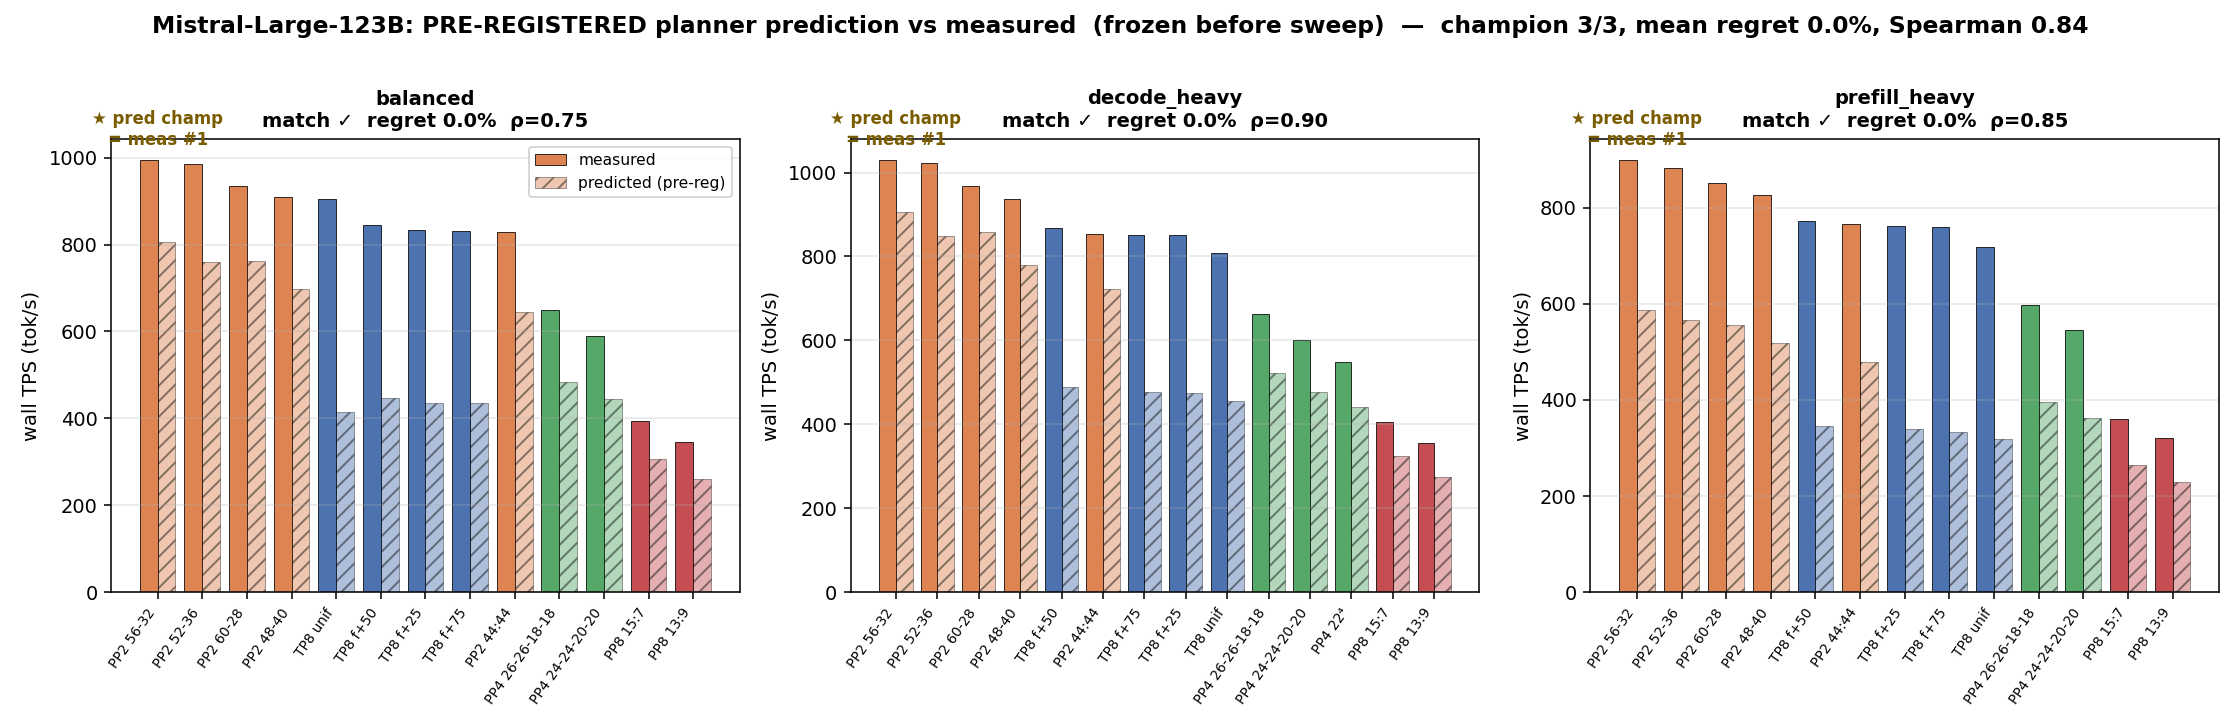
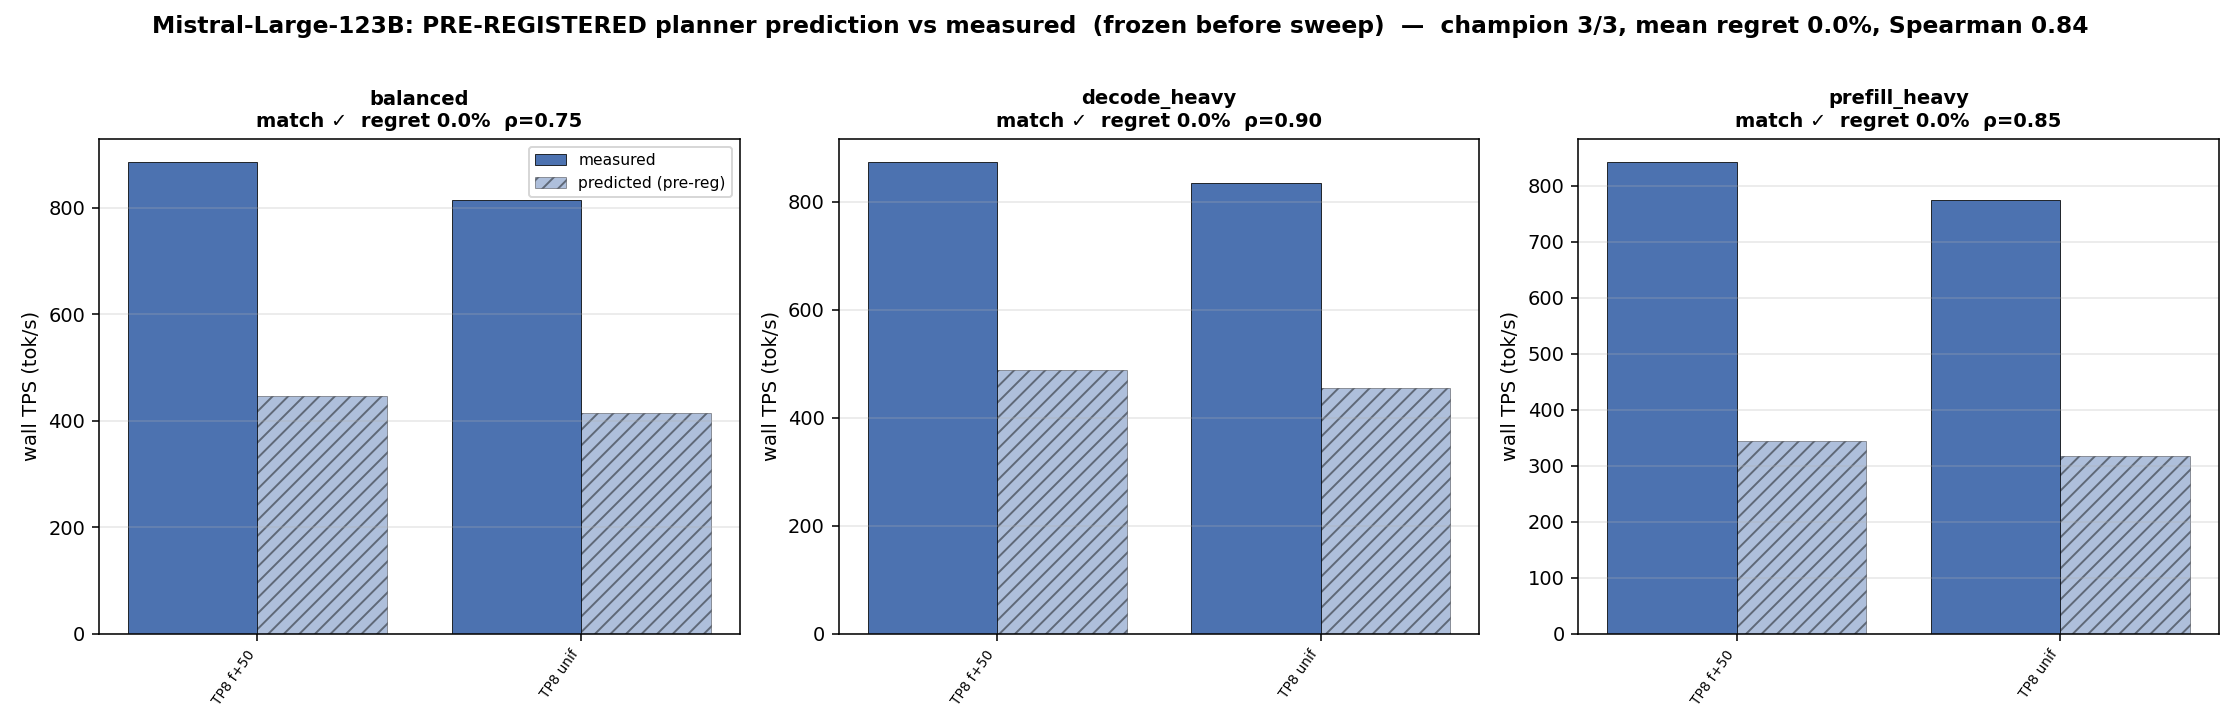
figures: final regeneration + FIGURES.md index + all_figures.pdf bundle; package re-tarred
All 18 figures regenerated with the final calibration (APC-corrected workloads,
twin-identified engine costs). FIGURES.md documents what each figure shows and
the headline metrics (17/17 invariants, +89.9% mean uplift, 8.6% mean regret).
legacy_fit archive completed (.bak_kappa included for historical provenance).

diff --git a/RESULTS_PACKAGE/figures/FIGURES.md b/RESULTS_PACKAGE/figures/FIGURES.md
@@ -1,0 +1,38 @@
+# Figure Index (final planner: APC-corrected workloads, twin-identified engine costs)
+
+All figures regenerated 2026-07-02 with the fit-free measured calibration
+(measured_params.json; PLANNER_MATH.md is the model spec). `all_figures.pdf`
+bundles everything below in reading order.
+
+## Headline
+| file | shows |
+|---|---|
+| `fig_mixed_traffic_combined.png` | Mixed-traffic serving, 4+4 & 2+2 × {8B, OPT-30B, 70B}: uniform-TP baseline vs planner pick vs measured oracle. Planner +40~+173% over TP8; 70B/OPT30B ≈ oracle |
+| `fig_mixed_traffic_4x4.png` / `_2x2.png` | Same, per layout (`fig_mixed_traffic.png` = 4+4 canonical copy) |
+
+## Planner accuracy & validation
+| file | shows |
+|---|---|
+| `fig_planner_validation.png` | Predicted-vs-measured TPS scatter (all layouts) + mean regret per layout (calibrated on 4+4, zero-refit 2+2/1+1) |
+| `fig_selfval_vs_baseline.png` | Self-validation: planner pick vs uniform baseline across measured cells |
+| `fig_mistral123b_prereg.png` | Pre-registered prediction test on an UNSEEN model (Mistral-123B): champion match 3/3, ρ=0.84 |
+| `fig_mistral123b_workload_rows.png` | Mistral-123B measured vs predicted per workload row |
+
+## Gains
+| file | shows |
+|---|---|
+| `planner_uplift/planner_vs_baseline_uplift_{4x4,2x2,1x1}.png` | Planner uplift over uniform TP per model × workload × n_req |
+| `fig_crossover_concurrency.png` | Optimal topology flips with concurrency (TP-heavy ↔ PP-heavy crossover) |
+| `fig_layout_gain.png` | Gain by cluster layout |
+
+## Per-model configuration rankings
+| file | shows |
+|---|---|
+| `per_model_configs/per_model_configs_{4x4,2x2,1x1}_<workload>.png` | Measured throughput of every serving config vs planner prediction, ranked, per model |
+
+## Notes
+- Sweep "prefill_heavy" cells were measured with identical prompts + vLLM prefix
+  caching ON → effectively decode-heavy (see PLANNER_MATH.md §12). Evaluations
+  model this via `prefill_unique_frac=1/n`; future sweeps need unique prompts.
+- Headline metrics: 17/17 invariants; mean uplift over uniform TP +89.9%
+  (96/103 cells ≥ baseline); mean regret vs oracle 8.6% (2+2 2.8% / 4+4 6.9%).

diff --git a/figures/FIGURES.md b/figures/FIGURES.md
@@ -1,0 +1,38 @@
+# Figure Index (final planner: APC-corrected workloads, twin-identified engine costs)
+
+All figures regenerated 2026-07-02 with the fit-free measured calibration
+(measured_params.json; PLANNER_MATH.md is the model spec). `all_figures.pdf`
+bundles everything below in reading order.
+
+## Headline
+| file | shows |
+|---|---|
+| `fig_mixed_traffic_combined.png` | Mixed-traffic serving, 4+4 & 2+2 × {8B, OPT-30B, 70B}: uniform-TP baseline vs planner pick vs measured oracle. Planner +40~+173% over TP8; 70B/OPT30B ≈ oracle |
+| `fig_mixed_traffic_4x4.png` / `_2x2.png` | Same, per layout (`fig_mixed_traffic.png` = 4+4 canonical copy) |
+
+## Planner accuracy & validation
+| file | shows |
+|---|---|
+| `fig_planner_validation.png` | Predicted-vs-measured TPS scatter (all layouts) + mean regret per layout (calibrated on 4+4, zero-refit 2+2/1+1) |
+| `fig_selfval_vs_baseline.png` | Self-validation: planner pick vs uniform baseline across measured cells |
+| `fig_mistral123b_prereg.png` | Pre-registered prediction test on an UNSEEN model (Mistral-123B): champion match 3/3, ρ=0.84 |
+| `fig_mistral123b_workload_rows.png` | Mistral-123B measured vs predicted per workload row |
+
+## Gains
+| file | shows |
+|---|---|
+| `planner_uplift/planner_vs_baseline_uplift_{4x4,2x2,1x1}.png` | Planner uplift over uniform TP per model × workload × n_req |
+| `fig_crossover_concurrency.png` | Optimal topology flips with concurrency (TP-heavy ↔ PP-heavy crossover) |
+| `fig_layout_gain.png` | Gain by cluster layout |
+
+## Per-model configuration rankings
+| file | shows |
+|---|---|
+| `per_model_configs/per_model_configs_{4x4,2x2,1x1}_<workload>.png` | Measured throughput of every serving config vs planner prediction, ranked, per model |
+
+## Notes
+- Sweep "prefill_heavy" cells were measured with identical prompts + vLLM prefix
+  caching ON → effectively decode-heavy (see PLANNER_MATH.md §12). Evaluations
+  model this via `prefill_unique_frac=1/n`; future sweeps need unique prompts.
+- Headline metrics: 17/17 invariants; mean uplift over uniform TP +89.9%
+  (96/103 cells ≥ baseline); mean regret vs oracle 8.6% (2+2 2.8% / 4+4 6.9%).